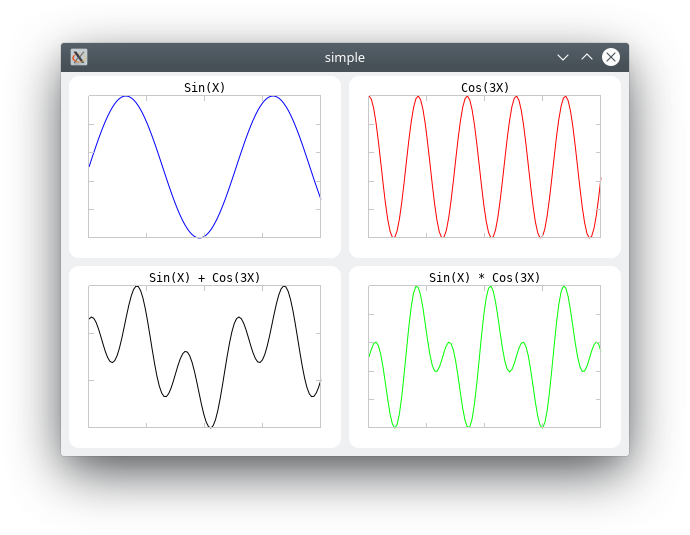
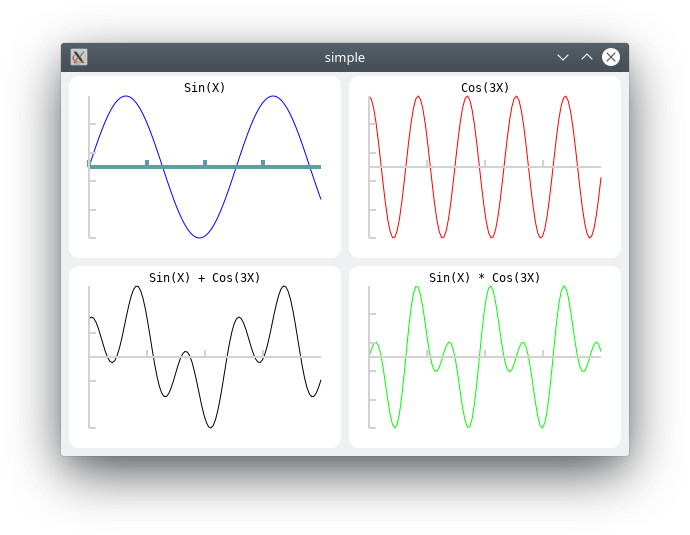
Update screenshot

diff --git a/library/source/slope/scale.c b/library/source/slope/scale.c
@@ -38,6 +38,7 @@ struct _SlopeScalePrivate
     SlopeRGBA line_color_selected;
     double line_width;
     double line_width_selected;
+    double tick_length;
 
     SlopeSampler sampler;
 
@@ -57,6 +58,7 @@ G_DEFINE_TYPE_WITH_PRIVATE (SlopeScale, slope_scale, SLOPE_TYPE_ITEM)
 static void scale_finalize (GObject *self);
 static void scale_dispose (GObject *self);
 static void scale_draw_self (SlopeItem *self, const SlopeItemDC *dc);
+static void axis2d_toggle_highlight (SlopeItem *self);
 
 
 static void
@@ -69,6 +71,7 @@ slope_scale_class_init (SlopeScaleClass *klass)
     gobject_class->finalize = scale_finalize;
 
     item_class->draw_self = scale_draw_self;
+    item_class->toggle_highlight = axis2d_toggle_highlight;
 }
 
 
@@ -77,13 +80,14 @@ slope_scale_init (SlopeScale *scale)
 {
     SlopeScalePrivate *m = SLOPE_SCALE_GET_PRIVATE (scale);
 
-    m->line_color = slope_gray(200);
-    m->line_width = 1.0;
-    m->line_color_selected = SLOPE_BLUE;
-    m->line_width_selected = 2.0;
+    m->line_color = slope_gray(210);
+    m->line_width = 2.0;
+    m->line_color_selected = SLOPE_CADETBLUE;
+    m->line_width_selected = 4.0;
     m->traits = SLOPE_SCALE_ANTIALIAS;
     m->data_min = 0.0;
     m->data_max = 1.0;
+    m->tick_length = 7.0;
 
     slope_sampler_init(&m->sampler);
 }
@@ -134,6 +138,26 @@ slope_scale_get_traits (SlopeScale *self)
     m = SLOPE_SCALE_GET_PRIVATE (self);
 
     return (SlopeScaleTrait) m->traits;
+}
+
+
+static void
+axis2d_toggle_highlight (SlopeItem *self)
+{
+    SlopeScalePrivate *m;
+    SlopeRGBA tmpcolor;
+    double tmpfloat;
+
+    g_assert (SLOPE_IS_SCALE (self));
+    m = SLOPE_SCALE_GET_PRIVATE (self);
+
+    tmpcolor = m->line_color;
+    m->line_color = m->line_color_selected;
+    m->line_color_selected = tmpcolor;
+
+    tmpfloat = m->line_width;
+    m->line_width = m->line_width_selected;
+    m->line_width_selected = tmpfloat;
 }
 
 
@@ -208,7 +232,7 @@ scale_draw_self (SlopeItem *self, const SlopeItemDC *dc)
         gulong k, n = m->sampler.size;
         step = length / n;
 
-        slope_point_move(p2, 5, ortog);
+        slope_point_move(p2, m->tick_length, ortog);
 
         for (k = 0; k < n; ++k) {
             cairo_move_to(dc->cr, p1.x, p1.y);

diff --git a/library/source/slope/item.c b/library/source/slope/item.c
@@ -72,6 +72,7 @@ static void item_draw_children (SlopeItem *self, SlopeItemDC *dc);
 static void item_draw_tree (SlopeItem *self, SlopeItemDC *dc);
 static void item_add_bottom (SlopeItem *parent, SlopeItem *child);
 static void item_add_top (SlopeItem *parent, SlopeItem *child);
+static void item_toggle_highlight (SlopeItem *self);
 
 
 static void
@@ -91,6 +92,7 @@ slope_item_class_init (SlopeItemClass *klass)
     klass->detached = item_attached_detached;
     klass->add_top = item_add_top;
     klass->add_bottom = item_add_bottom;
+    klass->toggle_highlight = item_toggle_highlight;
 
 
     item_props[PROP_VISIBLE] =
@@ -311,6 +313,21 @@ slope_item_set_visible (SlopeItem *self, gboolean visible)
 {
     g_assert (SLOPE_IS_ITEM (self));
     slope_enable_if(SLOPE_ITEM_GET_PRIVATE (self)->options, visible, ItemVisible);
+}
+
+
+static void
+item_toggle_highlight (SlopeItem *self)
+{
+    SLOPE_UNUSED(self);
+}
+
+
+void
+slope_item_toggle_highlight (SlopeItem *self)
+{
+    g_assert (SLOPE_IS_ITEM (self));
+    SLOPE_ITEM_GET_CLASS (self)->toggle_highlight(self);
 }
 
 

diff --git a/demos/simple.c b/demos/simple.c
@@ -33,6 +33,7 @@ int main(int argc, char *argv[])
     SlopeItem *grid;
     SlopeItem *axis1, *axis2, *axis3, *axis4;
     SlopeItem *series1, *series2, *series3, *series4;
+    SlopeScale *scale;
     SlopeArray2D *data1, *data2, *data3, *data4;
     double x;
     long k;
@@ -58,6 +59,8 @@ int main(int argc, char *argv[])
     /* Add axis onto the grid */
     axis1 = slope_axis2d_new("Sin(X)");
     slope_grid_emplace (SLOPE_GRID (grid), axis1, 0, 0, 10, 10);
+    scale = slope_axis2d_get_scale (SLOPE_AXIS2D (axis1), SLOPE_AXIS2D_SCALE_X);
+    slope_item_toggle_highlight (SLOPE_ITEM (scale));
 
     /* Add another axis onto the grid */
     axis2 = slope_axis2d_new("Cos(3X)");

diff --git a/library/include/slope/item.h b/library/include/slope/item.h
@@ -72,6 +72,7 @@ struct _SlopeItemClass
   void (*draw_tree) (SlopeItem *self, SlopeItemDC *dc);
   void (*add_top) (SlopeItem *parent, SlopeItem *child);
   void (*add_bottom) (SlopeItem *parent, SlopeItem *child);
+  void (*toggle_highlight) (SlopeItem *self);
 
   /* Padding for future expansion */
   void (*_slope_reserved1) (void);
@@ -92,6 +93,8 @@ void slope_item_destroy_tree (SlopeItem *self);
 gboolean slope_item_get_visible (SlopeItem *self);
 
 void slope_item_set_visible (SlopeItem *self, gboolean visible);
+
+void slope_item_toggle_highlight (SlopeItem *self);
 
 SlopeTree* slope_item_get_tree_node (SlopeItem *self);
 

diff --git a/library/source/slope/axis2d.c b/library/source/slope/axis2d.c
@@ -110,7 +110,7 @@ slope_axis2d_init (SlopeAxis2D *self)
     slope_scale_set_trait (SLOPE_SCALE (m->scales[SCALE_LEFT]), SLOPE_SCALE_REVERSE_TICKS, TRUE);
     slope_scale_set_trait (SLOPE_SCALE (m->scales[SCALE_Y]), SLOPE_SCALE_REVERSE_TICKS, TRUE);
     slope_scale_set_trait (SLOPE_SCALE (m->scales[SCALE_TOP]), SLOPE_SCALE_REVERSE_TICKS, TRUE);
-    slope_axis2d_set_scales (SLOPE_AXIS2D (self), SLOPE_AXIS2D_SCALE_FRAMED);
+    slope_axis2d_set_scales (SLOPE_AXIS2D (self), SLOPE_AXIS2D_SCALE_ZERO);
 }
 
 
